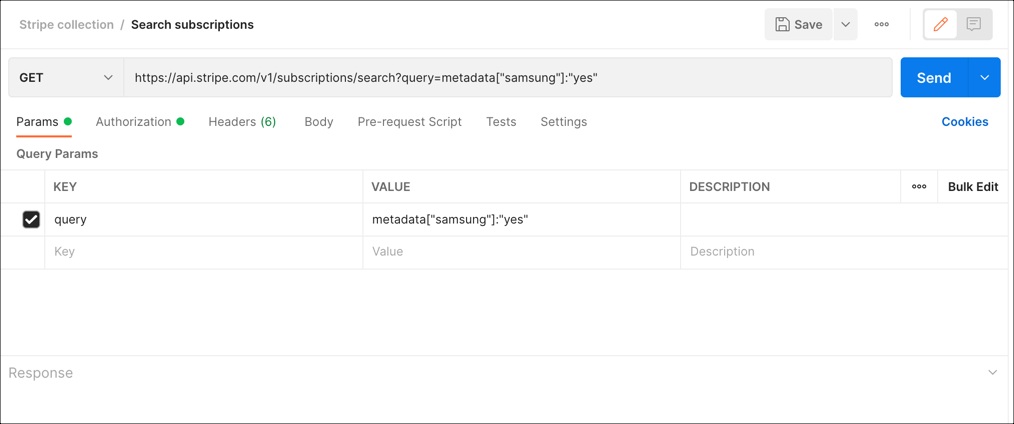
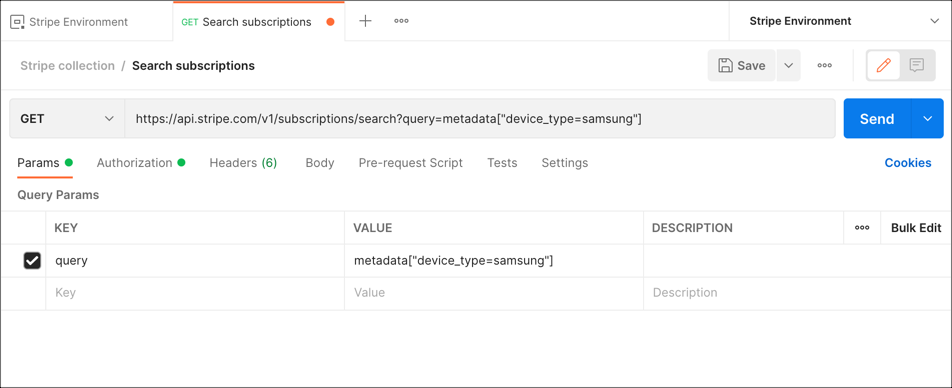
update metadata values

diff --git a/_site/monetization/general/stripe-custom-metadata.html b/_site/monetization/general/stripe-custom-metadata.html
@@ -7,7 +7,7 @@
   <meta name="viewport" content="width=device-width, initial-scale=1, shrink-to-fit=no">
   <meta name="description" content="In this topic, you will learn how to retrieve subscription information associated with Stripe custom metadata using the Stripe API.">
   
-  <title>Stripe Custom Metadata</title>
+  <title>Retrieving Subscription Info with Stripe Metadata</title>
   <link rel="apple-touch-icon" sizes="180x180" href="/apple-touch-icon.png">
   <link rel="icon" type="image/png" sizes="32x32" href="/favicon-32x32.png">
   <link rel="icon" type="image/png" sizes="16x16" href="/favicon-16x16.png">
@@ -64,7 +64,7 @@ function doGTranslate(lang_pair) {if(lang_pair.value)lang_pair=lang_pair.value;i
       
       <li class="breadcrumb-item"><a href="/monetization/general/">Monetization</a></li>
       
-      <li class="breadcrumb-item active" aria-current="page">Stripe Custom Metadata</li>
+      <li class="breadcrumb-item active" aria-current="page">Retrieving Subscription Info with Stripe Metadata</li>
     </ol>
   </nav>
 </header>
@@ -1879,13 +1879,13 @@ function doGTranslate(lang_pair) {if(lang_pair.value)lang_pair=lang_pair.value;i
     
 
 
-<h1>Stripe Custom Metadata</h1>
+<h1>Retrieving Subscription Info with Stripe Metadata</h1>
 <article class="bcls-article">
   <summary>In this topic, you will learn how to retrieve subscription information associated with Stripe custom metadata using the Stripe API.</summary>
   <section class="bcls-section">
     <h2 id="Overview">Overview</h2>
     <p>
-      Brightcove is adding custom metadata to Stripe subscriptions that will allow you to identify the viewer's device type used when creating the subscription. You can then query the Stripe API to search for subscriptions associated with the custom metadata. You can also add webhooks to listen for Stripe events.
+      Brightcove is adding custom metadata to Stripe subscriptions that will allow you to identify the viewer's device type used when creating the subscription. You can query the Stripe API to search for subscriptions associated with the custom metadata. You can also add webhooks to listen for Stripe events.
     </p>
     <p>This topic will show you how to do the following:</p>
     <ul>
@@ -2004,19 +2004,45 @@ function doGTranslate(lang_pair) {if(lang_pair.value)lang_pair=lang_pair.value;i
 
   <section class="bcls-section">
     <h2 id="Searching_subscriptions_with_metadata">Searching subscriptions with metadata</h2>
-    <p>In a previous steip, we added custom metadata (<code translate="No">Samsung:yes</code>) to one of our subscription packages. Now, we will use the Stripe API to search for subscriptions with that metadata.</p>
+    <p>In this section, you will use the Stripe API to search for subscriptions that have custom metadata.</p> 
+    <h3>Custom metadata</h3>
+    <table class="bcls-table">
+      <thead class="bcls-table__head">
+          <tr>
+              <th style="width:40%;">Name</th>
+              <th style="width:60%;">Value</th>                         
+          </tr>
+      </thead>
+      <tbody class="bcls-table__body">
+          <tr>
+            <td><code translate="No">device_type</code></td>  
+            <td>Values:
+              <ul>
+                <li><code translate="No">androidtv</code></li>
+                <li><code translate="No">firetv</code></li>
+                <li><code translate="No">lgtv</code></li>
+                <li><code translate="No">nettv</code></li>
+                <li><code translate="No">operatv</code></li>
+                <li><code translate="No">panasonic</code></li>
+                <li><code translate="No">samsung</code></li>
+              </ul>
+            </td>                     
+          </tr>            
+      </tbody>
+    </table>
     
+    <h3>Steps</h3>
     <ol class="bcls-tasklist-restart">
-      <li>Return to the Postman environment that you created in the previous section..</li>
+      <li>Return to the Postman environment that you created in the previous section.</li>
       <li>
-        <p>For the <code translate="No">GET</code> request, paste in the following into the Request URL.</p>
-        <pre><code class="language-http" translate="No">https://api.stripe.com/v1/subscriptions/search?query=metadata[&quot;samsung&quot;]:&quot;yes&quot;</code></pre>
+        <p>For the <code translate="No">GET</code> request, paste in the following into the Request URL. Use the device type value of your choice.</p>
+        <pre><code class="language-http" translate="No">https://api.stripe.com/v1/subscriptions/search?query=metadata[&quot;device_type=samsung&quot;]</code></pre>
         <br/>
         <figure class="bcls-figure">
           <img class="bcls-image" src="/assets/images/s-monetization-img/managing-stripe-metadata/get-samsung-subscriptions.png" alt="Get Samsung subscriptions" />
         </figure>
       </li>
-      <li>Click <strong>Send</strong>.</li>
+      <li>Click <strong>Send</strong>.</li> 
     </ol>
 
     <h3>Response</h3>
@@ -2182,16 +2208,185 @@ function doGTranslate(lang_pair) {if(lang_pair.value)lang_pair=lang_pair.value;i
     <p>Your Brightcove Beacon app can listen for events on your Stripe account, and you can use webhooks to enable Stripe to push real-time notifications to your app, or you can use a webhook as an endpoint.</p>
     <p>For details, see the Stripe <a href="https://stripe.com/docs/webhooks">Use incoming webhooks</a> reference.</p>
 
-    <h3>Events</h3>
-    <p>Here are some events you can listen for:</p>
-
-    <h4>Subscription updated/renew</h4>
-    <p>A Stripe webhook can listen for the <code translate="No">subscription updated/renew</code> events.</p>
-    <p>Notice that the response contains the following:</p>
+    <p>Notice that each response contains the following:</p>
     <pre><code class="language-json" translate="No">&quot;metadata&quot;: {
     &quot;Samsung&quot;: &quot;yes&quot;
 },</code></pre>
-    <br/>
+
+    <h3>Events</h3>
+    <p>Here are some events you can listen for:</p>
+
+    <h4>customer.subscription.created</h4>
+    <p>A Stripe webhook can listen for the <code translate="No">customer.subscription.created</code> event.</p>
+
+    <details>
+      <summary><h3 id="Development_sequence">API response</h3></summary> 
+        <p>Your response should look similar to this:</p>
+        <pre class="line-numbers"><code class="language-json" translate="No">{
+  &quot;object&quot;: {
+    &quot;id&quot;: &quot;sub_1L3jAgFzWFPFNFjqFpyUF8XY&quot;,
+    &quot;object&quot;: &quot;subscription&quot;,
+    &quot;application&quot;: null,
+    &quot;application_fee_percent&quot;: null,
+    &quot;automatic_tax&quot;: {
+      &quot;enabled&quot;: false
+    },
+    &quot;billing&quot;: &quot;charge_automatically&quot;,
+    &quot;billing_cycle_anchor&quot;: 1653581061,
+    &quot;billing_thresholds&quot;: null,
+    &quot;cancel_at&quot;: null,
+    &quot;cancel_at_period_end&quot;: false,
+    &quot;canceled_at&quot;: null,
+    &quot;collection_method&quot;: &quot;charge_automatically&quot;,
+    &quot;created&quot;: 1653581061,
+    &quot;current_period_end&quot;: 1656259461,
+    &quot;current_period_start&quot;: 1653581061,
+    &quot;customer&quot;: &quot;cus_LlFcWXPXftQibf&quot;,
+    &quot;days_until_due&quot;: null,
+    &quot;default_payment_method&quot;: null,
+    &quot;default_source&quot;: null,
+    &quot;default_tax_rates&quot;: [
+    ],
+    &quot;description&quot;: null,
+    &quot;discount&quot;: null,
+    &quot;ended_at&quot;: null,
+    &quot;invoice_customer_balance_settings&quot;: {
+      &quot;consume_applied_balance_on_void&quot;: true
+    },
+    &quot;items&quot;: {
+      &quot;object&quot;: &quot;list&quot;,
+      &quot;data&quot;: [
+        {
+          &quot;id&quot;: &quot;si_LlFgWbs9lqlwOF&quot;,
+          &quot;object&quot;: &quot;subscription_item&quot;,
+          &quot;billing_thresholds&quot;: null,
+          &quot;created&quot;: 1653581062,
+          &quot;metadata&quot;: {
+          },
+          &quot;plan&quot;: {
+            &quot;id&quot;: &quot;price_1L3j69FzWFPFNFjqpEIV4RMb&quot;,
+            &quot;object&quot;: &quot;plan&quot;,
+            &quot;active&quot;: true,
+            &quot;aggregate_usage&quot;: null,
+            &quot;amount&quot;: 100,
+            &quot;amount_decimal&quot;: &quot;100&quot;,
+            &quot;billing_scheme&quot;: &quot;per_unit&quot;,
+            &quot;created&quot;: 1653580781,
+            &quot;currency&quot;: &quot;eur&quot;,
+            &quot;interval&quot;: &quot;month&quot;,
+            &quot;interval_count&quot;: 1,
+            &quot;livemode&quot;: false,
+            &quot;metadata&quot;: {
+            },
+            &quot;name&quot;: &quot;Beacon Metadata&quot;,
+            &quot;nickname&quot;: null,
+            &quot;product&quot;: &quot;prod_LlFbyvOQ6dpLXF&quot;,
+            &quot;statement_descriptor&quot;: null,
+            &quot;tiers&quot;: null,
+            &quot;tiers_mode&quot;: null,
+            &quot;transform_usage&quot;: null,
+            &quot;trial_period_days&quot;: null,
+            &quot;usage_type&quot;: &quot;licensed&quot;
+          },
+          &quot;price&quot;: {
+            &quot;id&quot;: &quot;price_1L3j69FzWFPFNFjqpEIV4RMb&quot;,
+            &quot;object&quot;: &quot;price&quot;,
+            &quot;active&quot;: true,
+            &quot;billing_scheme&quot;: &quot;per_unit&quot;,
+            &quot;created&quot;: 1653580781,
+            &quot;currency&quot;: &quot;eur&quot;,
+            &quot;livemode&quot;: false,
+            &quot;lookup_key&quot;: null,
+            &quot;metadata&quot;: {
+            },
+            &quot;nickname&quot;: null,
+            &quot;product&quot;: &quot;prod_LlFbyvOQ6dpLXF&quot;,
+            &quot;recurring&quot;: {
+              &quot;aggregate_usage&quot;: null,
+              &quot;interval&quot;: &quot;month&quot;,
+              &quot;interval_count&quot;: 1,
+              &quot;trial_period_days&quot;: null,
+              &quot;usage_type&quot;: &quot;licensed&quot;
+            },
+            &quot;tax_behavior&quot;: &quot;unspecified&quot;,
+            &quot;tiers_mode&quot;: null,
+            &quot;transform_quantity&quot;: null,
+            &quot;type&quot;: &quot;recurring&quot;,
+            &quot;unit_amount&quot;: 100,
+            &quot;unit_amount_decimal&quot;: &quot;100&quot;
+          },
+          &quot;quantity&quot;: 1,
+          &quot;subscription&quot;: &quot;sub_1L3jAgFzWFPFNFjqFpyUF8XY&quot;,
+          &quot;tax_rates&quot;: [
+          ]
+        }
+      ],
+      &quot;has_more&quot;: false,
+      &quot;total_count&quot;: 1,
+      &quot;url&quot;: &quot;/v1/subscription_items?subscription=sub_1L3jAgFzWFPFNFjqFpyUF8XY&quot;
+    },
+    &quot;latest_invoice&quot;: &quot;in_1L3jAgFzWFPFNFjq8YFoU6R3&quot;,
+    &quot;livemode&quot;: false,
+    &quot;metadata&quot;: {
+      &quot;Samsung&quot;: &quot;yes&quot;
+    },
+    &quot;next_pending_invoice_item_invoice&quot;: null,
+    &quot;pause_collection&quot;: null,
+    &quot;payment_settings&quot;: {
+      &quot;payment_method_options&quot;: null,
+      &quot;payment_method_types&quot;: null,
+      &quot;save_default_payment_method&quot;: &quot;off&quot;
+    },
+    &quot;pending_invoice_item_interval&quot;: null,
+    &quot;pending_setup_intent&quot;: null,
+    &quot;pending_update&quot;: null,
+    &quot;plan&quot;: {
+      &quot;id&quot;: &quot;price_1L3j69FzWFPFNFjqpEIV4RMb&quot;,
+      &quot;object&quot;: &quot;plan&quot;,
+      &quot;active&quot;: true,
+      &quot;aggregate_usage&quot;: null,
+      &quot;amount&quot;: 100,
+      &quot;amount_decimal&quot;: &quot;100&quot;,
+      &quot;billing_scheme&quot;: &quot;per_unit&quot;,
+      &quot;created&quot;: 1653580781,
+      &quot;currency&quot;: &quot;eur&quot;,
+      &quot;interval&quot;: &quot;month&quot;,
+      &quot;interval_count&quot;: 1,
+      &quot;livemode&quot;: false,
+      &quot;metadata&quot;: {
+      },
+      &quot;name&quot;: &quot;Beacon Metadata&quot;,
+      &quot;nickname&quot;: null,
+      &quot;product&quot;: &quot;prod_LlFbyvOQ6dpLXF&quot;,
+      &quot;statement_descriptor&quot;: null,
+      &quot;tiers&quot;: null,
+      &quot;tiers_mode&quot;: null,
+      &quot;transform_usage&quot;: null,
+      &quot;trial_period_days&quot;: null,
+      &quot;usage_type&quot;: &quot;licensed&quot;
+    },
+    &quot;quantity&quot;: 1,
+    &quot;schedule&quot;: null,
+    &quot;start&quot;: 1653581061,
+    &quot;start_date&quot;: 1653581061,
+    &quot;status&quot;: &quot;active&quot;,
+    &quot;tax_percent&quot;: null,
+    &quot;test_clock&quot;: null,
+    &quot;transfer_data&quot;: null,
+    &quot;trial_end&quot;: null,
+    &quot;trial_start&quot;: null
+  },
+  &quot;previous_attributes&quot;: {
+    &quot;metadata&quot;: {
+      &quot;Samsung&quot;: null
+    }
+  }
+}
+</code></pre>    
+    </details>
+
+    <h4>customer.subscription.updated</h4>
+    <p>A Stripe webhook can listen for the <code translate="No">customer.subscription.updated</code> event.</p>
 
     <details>
       <summary><h3 id="Development_sequence">API response</h3></summary> 
@@ -2359,7 +2554,7 @@ function doGTranslate(lang_pair) {if(lang_pair.value)lang_pair=lang_pair.value;i
 </code></pre>    
     </details>
     
-    <h4>Subscription Removed/canceled</h4>
+    <!-- <h4>Subscription Removed/canceled</h4>
     <p>A Stripe webhook can listen for the <code translate="No">subscription Removed/canceled</code> events.</p>
     <p>Notice that the response contains the following:</p>
     <pre><code class="language-json" translate="No">&quot;metadata&quot;: {
@@ -2526,7 +2721,7 @@ function doGTranslate(lang_pair) {if(lang_pair.value)lang_pair=lang_pair.value;i
   }
 }
 </code></pre>    
-    </details>
+    </details> -->
 
   </section>
 

diff --git a/monetization/general/stripe-custom-metadata.html b/monetization/general/stripe-custom-metadata.html
@@ -1,5 +1,5 @@
 ---
-title: 'Stripe Custom Metadata'
+title: 'Retrieving Subscription Info with Stripe Metadata'
 description: 'In this topic, you will learn how to retrieve subscription information associated with Stripe custom metadata using the Stripe API.'
 parent: 'Monetization'
 layout: staging
